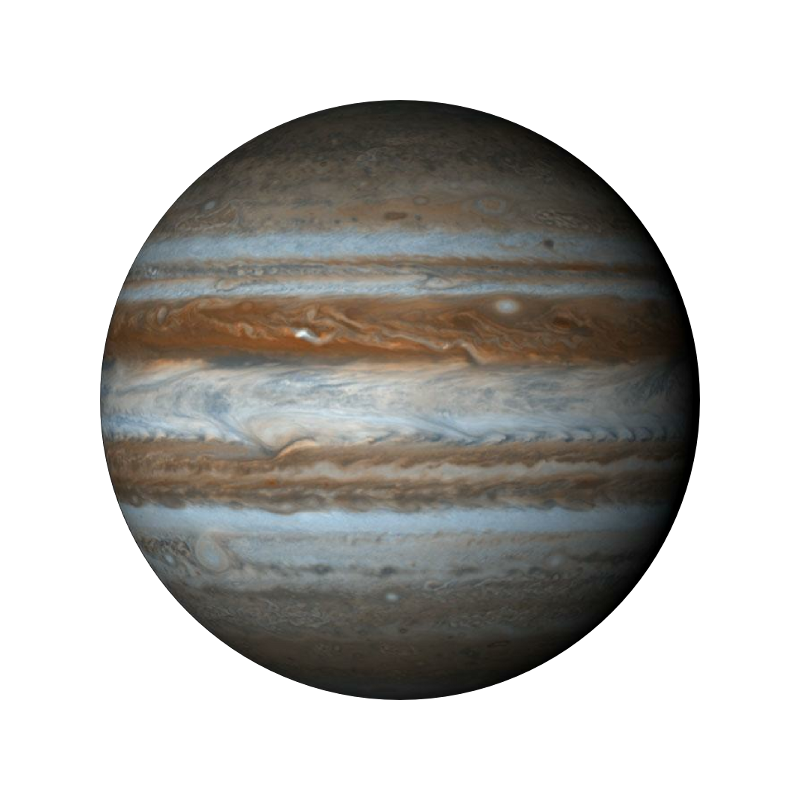
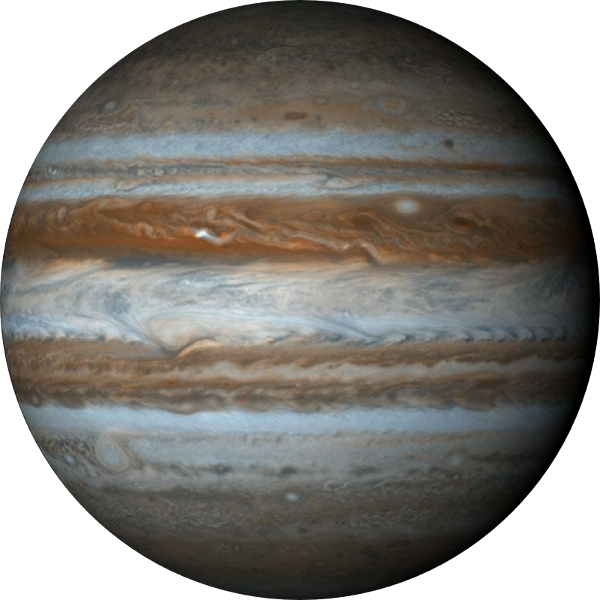
now working with shadows and images in 2D

diff --git a/src/index.js b/src/index.js
@@ -14,11 +14,17 @@ print = (str) => {
 
 
 var img_jupiter,
-  img_sun;
+  img_sun,
+  img_mars,
+  img_moon,
+  img_shadow;
+
 function preload() {
-  //img_jupiter = loadImage("img/jupiter-transparent.png");
-  img_jupiter = loadImage("img/marsmap1k.jpg");
-  img_sun = loadImage("img/2k_sun.jpg");
+  img_jupiter = loadImage("img/jupiter-transparent.png");
+  img_moon = loadImage("img/moon.png");
+  img_shadow = loadImage("img/shadow.png");
+  // img_mars = loadImage("img/marsmap1k.jpg");
+  img_sun = loadImage("img/sun.png");
 }
 
 
@@ -74,41 +80,55 @@ class Planet {
 
 drawSun = function() {
   fill(240, 240, 0);
-  ellipse(0, 0, this.radius * 2, this.radius * 2, 70);
+  //ellipse(0, 0, this.radius * 2, this.radius * 2, 70);
+  imageMode(CENTER);
+  image(img_sun, 0, 0, this.radius * 2, this.radius * 2);
 }
 
 drawEarth = function() {
 
-  // Shadow
-  push();
-  rotate(star.satellite.getAngle() + HALF_PI);
-  fill('rgba(0, 0, 0, 0.99)');
-  noStroke();
-  rect(-systemSizeX, -this.radius, systemSizeX, this.radius * 2);
-  pop();
+  drawProjectedshadow(this.radius, angleToStar(this));
 
-  // Ellipse
-  fill(10, 10, 240);
-  ellipse(0, 0, this.radius * 2);
+  image(img_jupiter, 0, 0, this.radius * 2, this.radius * 2);
+  drawOvershadow(this.radius, angleToStar(this)); //star.satellite.getAngle());
+// fill(10, 100, 240);
+//ellipse(0, 0, this.radius * 2);
 }
 
+
 drawMoon = function() {
-  // Shadow
-  // push();
-  // rotateZ(star.satellite.getAngle() + HALF_PI);
-  // fill('rgba(0, 0, 0, 0.99)');
-  // noStroke();
-  // rect(-systemSizeX, -this.radius, systemSizeX, this.radius * 2);
-  // pop();
 
-  // if (this.getAngle() < 3.25) {
-  //   fill(245);
-  //   rect(-1, 0, 2, this.orbitRadius - this.celestialParent.radius + 2);
-  // }
+  drawProjectedshadow(this.radius, angleToStar(this));
 
+  image(img_moon, 0, 0, this.radius * 2, this.radius * 2);
+  drawOvershadow(this.radius, angleToStar(this));
+//fill(150, 150, 150);
+//ellipse(0, 0, this.radius * 2);
+}
+
+
+drawSatellite = function() {
   fill(150, 150, 150);
-  ellipse(0, 0, this.radius * 2);
+  rectMode(CENTER);
+  rect(0, 0, this.radius, this.radius);
+}
 
+
+drawOvershadow = function(radius, angle) {
+  push();
+  rotate(angle);
+  image(img_shadow, 0, 0, radius * 2 + 0.5, radius * 2 + 0.5);
+  pop();
+}
+
+drawProjectedshadow = function(radius, angle) {
+  push();
+  rotate(angle);
+  fill('rgba(0, 0, 0, 0.3)');
+  noStroke();
+  rectMode(CORNER);
+  rect(-systemSizeX, -radius, systemSizeX, radius * 2);
+  pop();
 }
 
 
@@ -138,6 +158,13 @@ getMinutesAngle = () => {
   a += PI;
   return a;
 }
+
+// Returns the angle that the shadow must be rotated to.
+angleToStar = function(planet) {
+  var a = atan2(star.position.x - planet.position.x, star.position.y - planet.position.y);
+  return -a + HALF_PI;
+}
+
 
 // Calculate the maximum size of the system
 
@@ -183,13 +210,11 @@ class Star {
 //   star.satellite
 // );
 
-// Note : better to stay at small size, not sure why anymore
+// Note : better to stay at small size, not sure why anymore (only in 3D ?)
 var star = new Planet(drawSun, getNoAngle, 100, 0, null);
 star.satellite = new Planet(drawEarth, getMinutesAngle, 40, 240, star);
-star.satellite.satellite = new Planet(drawMoon, getSecondsAngle, 20, 100,
-  star.satellite
-);
-star.satellite.satellite.satellite = new Planet(drawMoon, getMillisAngle, 2, 25,
+star.satellite.satellite = new Planet(drawMoon, getSecondsAngle, 20, 100, star.satellite);
+star.satellite.satellite.satellite = new Planet(drawSatellite, getMillisAngle, 2, 25,
   star.satellite.satellite
 );
 
@@ -237,7 +262,7 @@ setup = () => {
 // ====== DRAW ======
 // Draw every frame
 draw = () => {
-  background(5);
+  background(10);
 
 
 
